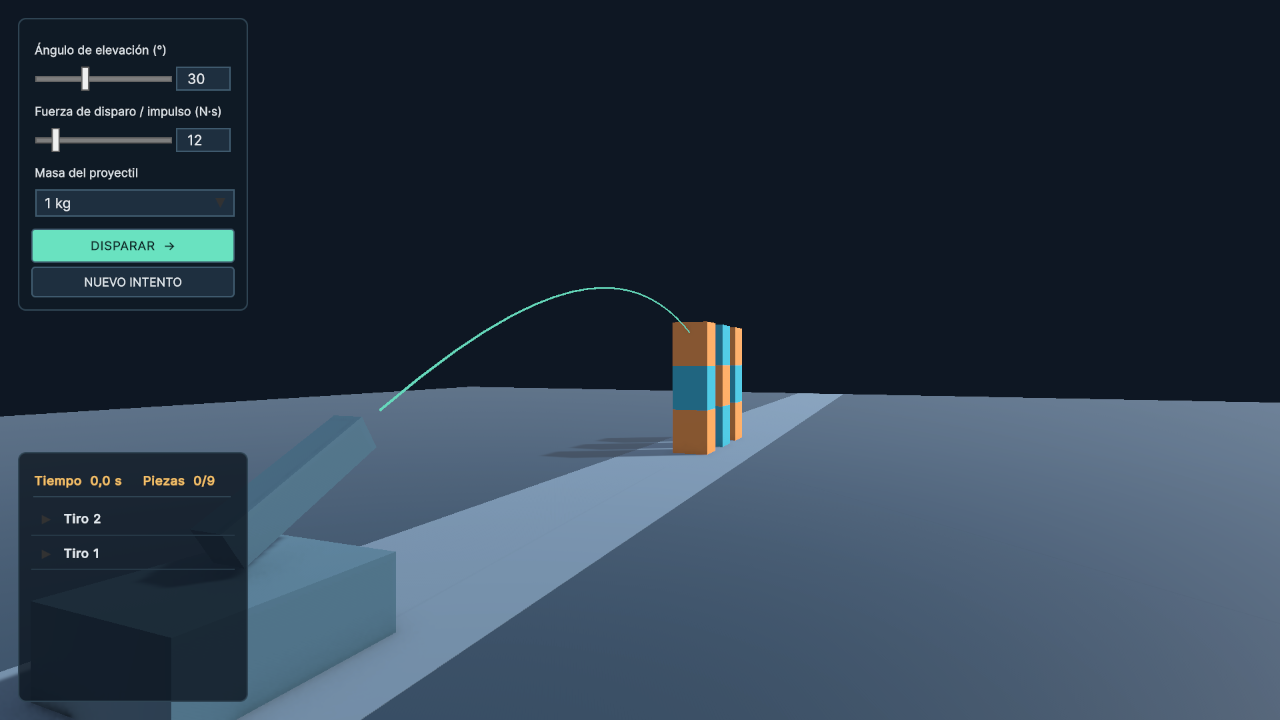
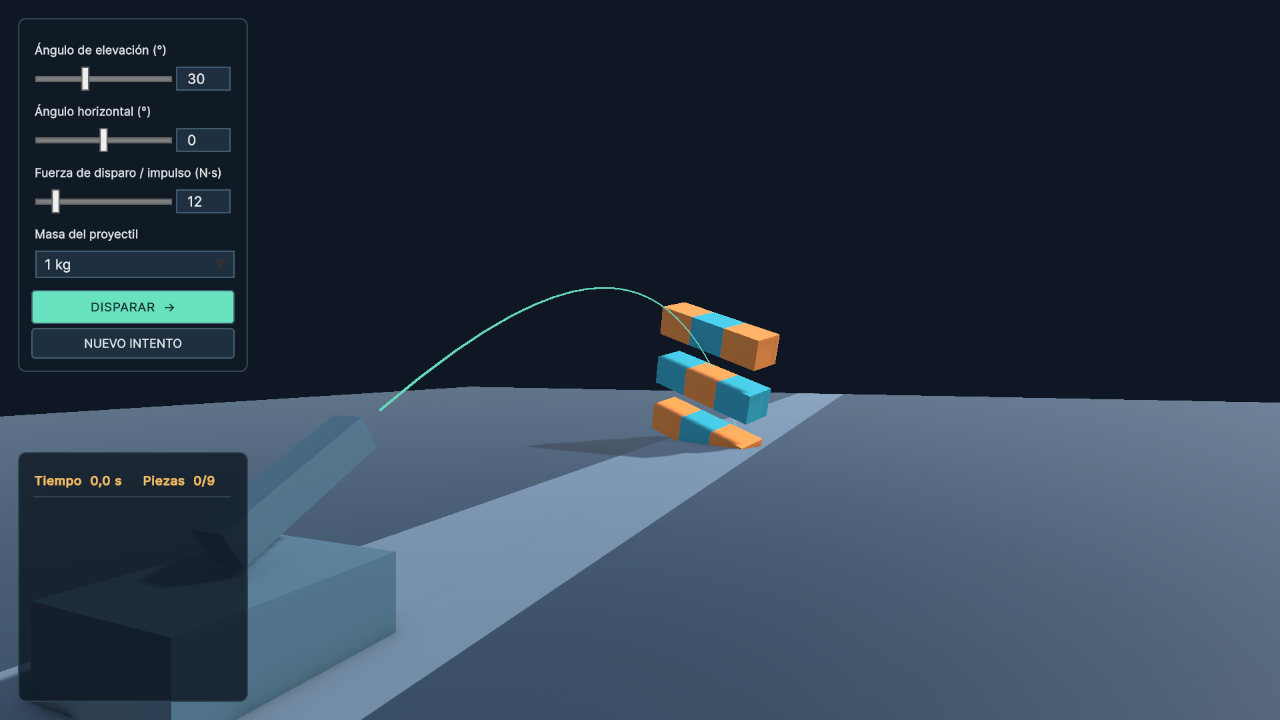
feat: preserve editable target layout and add horizontal aim

diff --git a/Assets/Ballistics/Scripts/BallisticSession.cs b/Assets/Ballistics/Scripts/BallisticSession.cs
@@ -1,18 +1,20 @@
 using System;
 using System.Collections.Generic;
 using UnityEngine;
+using UnityEngine.Serialization;
 
 namespace Ballistics
 {
     public class BallisticSession : MonoBehaviour
     {
         public Projectile projectilePrefab;
-        public GameObject structurePrefab;
+        [FormerlySerializedAs("structurePrefab")]
+        public GameObject structureTemplate;
         public Transform barrelPivot;
         public Transform muzzle;
         public LineRenderer preview;
-        public Vector3 targetPosition = new Vector3(12, 0, 0);
         [Range(5, 75)] public float angle = 30;
+        [Range(-45, 45)] public float horizontalAngle;
         [Range(5, 60)] public float impulse = 12;
         public float mass = 1;
 
@@ -41,19 +43,29 @@ namespace Ballistics
         private float startedAt, firstImpactAt, quietTime;
         private bool pendingLaunch;
         private readonly Vector3[] previewPoints = new Vector3[70];
+        private Vector3 fallbackTemplatePosition = new Vector3(12, 0, 0);
+        private Quaternion fallbackTemplateRotation = Quaternion.identity;
+
+        private Quaternion LaunchRotation => Quaternion.Euler(0, -horizontalAngle, angle);
 
         private void Start()
         {
             Application.runInBackground = true;
             preview.shadowCastingMode = UnityEngine.Rendering.ShadowCastingMode.Off;
             preview.receiveShadows = false;
+            if (structureTemplate != null && structureTemplate.scene.IsValid())
+            {
+                fallbackTemplatePosition = structureTemplate.transform.position;
+                fallbackTemplateRotation = structureTemplate.transform.rotation;
+                structureTemplate.SetActive(false);
+            }
             ResetRange();
         }
 
         private void Update()
         {
             if (IsRunning) return;
-            barrelPivot.rotation = Quaternion.Euler(0, 0, angle);
+            barrelPivot.rotation = LaunchRotation;
             Vector3 velocity = barrelPivot.right * (impulse / mass);
             int count = 0;
             for (int i = 0; i < previewPoints.Length; i++)
@@ -61,7 +73,7 @@ namespace Ballistics
                 float t = i * 0.055f;
                 Vector3 point = muzzle.position + velocity * t + Physics.gravity * (0.5f * t * t);
                 previewPoints[count++] = point;
-                if (point.y < 0.22f || point.x > 32) break;
+                if (point.y < 0.22f || (point - muzzle.position).sqrMagnitude > 32 * 32) break;
             }
             preview.positionCount = count;
             for (int i = 0; i < count; i++) preview.SetPosition(i, previewPoints[i]);
@@ -77,7 +89,8 @@ namespace Ballistics
             firstImpactAt = -1;
             quietTime = 0;
             current = new ShotRecord { attempt = ++attempt, timestampUtc = DateTime.UtcNow.ToString("O"),
-                angleDegrees = angle, launchImpulseNs = impulse, massKg = mass };
+                angleDegrees = angle, horizontalAngleDegrees = horizontalAngle,
+                launchImpulseNs = impulse, massKg = mass };
             preview.enabled = false;
             Changed?.Invoke();
         }
@@ -88,7 +101,7 @@ namespace Ballistics
             if (pendingLaunch)
             {
                 pendingLaunch = false;
-                barrelPivot.rotation = Quaternion.Euler(0, 0, angle);
+                barrelPivot.rotation = LaunchRotation;
                 projectile = Instantiate(projectilePrefab, muzzle.position, Quaternion.identity);
                 projectileBody = projectile.GetComponent<Rigidbody>();
                 projectile.Launch(this, barrelPivot.right, impulse, mass);
@@ -103,7 +116,8 @@ namespace Ballistics
             quietTime = quiet ? quietTime + Time.fixedDeltaTime : 0;
             if (firstImpactAt >= 0 && Time.fixedTime - firstImpactAt >= 3 && quietTime >= 0.8f) CompleteShot("En reposo", true);
             else if (Elapsed >= 12) CompleteShot("Tiempo máximo de observación (12 s)", true);
-            else if (projectile.transform.position.y < -10 || projectile.transform.position.x > 65)
+            else if (projectile.transform.position.y < -10 ||
+                     (projectile.transform.position - muzzle.position).sqrMagnitude > 65 * 65)
             {
                 // Allow time for the structure to finish falling even if the projectile leaves the range.
                 if (firstImpactAt < 0) firstImpactAt = Time.fixedTime;
@@ -144,7 +158,17 @@ namespace Ballistics
             if (IsRunning) CompleteShot("Interrumpido", false);
             if (structure != null) { structure.SetActive(false); Destroy(structure); }
             if (projectile != null) { projectile.gameObject.SetActive(false); Destroy(projectile.gameObject); }
-            structure = Instantiate(structurePrefab, targetPosition, Quaternion.identity);
+            if (structureTemplate == null)
+            {
+                Debug.LogError("Falta asignar la plantilla de objetivos en BallisticSession.");
+                return;
+            }
+            bool sceneTemplate = structureTemplate.scene.IsValid();
+            Vector3 position = sceneTemplate ? structureTemplate.transform.position : fallbackTemplatePosition;
+            Quaternion rotation = sceneTemplate ? structureTemplate.transform.rotation : fallbackTemplateRotation;
+            structure = Instantiate(structureTemplate, position, rotation);
+            structure.name = "Objetivos - intento actual";
+            structure.SetActive(true);
             pieces = structure.GetComponentsInChildren<TargetPiece>();
             current = null;
             projectile = null;

diff --git a/Assets/Ballistics/Scripts/BallisticHUD.cs b/Assets/Ballistics/Scripts/BallisticHUD.cs
@@ -8,7 +8,7 @@ namespace Ballistics
     public class BallisticHUD : MonoBehaviour
     {
         public BallisticSession session;
-        private Slider angle, impulse;
+        private Slider angle, horizontalAngle, impulse;
         private DropdownField mass;
         private Button fire, reset;
         private Label liveTelemetry;
@@ -19,16 +19,18 @@ namespace Ballistics
         {
             var root = GetComponent<UIDocument>().rootVisualElement;
             angle = root.Q<Slider>("angle");
+            horizontalAngle = root.Q<Slider>("horizontal-angle");
             impulse = root.Q<Slider>("impulse");
             mass = root.Q<DropdownField>("mass");
             fire = root.Q<Button>("fire"); reset = root.Q<Button>("reset");
             liveTelemetry = root.Q<Label>("live-telemetry");
             history = root.Q<ScrollView>("history");
             controls = root.Q("controls");
-            angle.value = session.angle; impulse.value = session.impulse;
+            angle.value = session.angle; horizontalAngle.value = session.horizontalAngle; impulse.value = session.impulse;
             mass.choices = new List<string> { "0,5 kg", "1 kg", "2 kg" };
             mass.index = session.mass < 0.75f ? 0 : session.mass > 1.5f ? 2 : 1;
             angle.RegisterValueChangedCallback(e => session.angle = e.newValue);
+            horizontalAngle.RegisterValueChangedCallback(e => session.horizontalAngle = e.newValue);
             impulse.RegisterValueChangedCallback(e => session.impulse = e.newValue);
             mass.RegisterValueChangedCallback(e => session.mass = mass.index == 0 ? 0.5f : mass.index == 1 ? 1 : 2);
             fire.clicked += session.Fire; reset.clicked += session.ResetRange;

diff --git a/Assets/Ballistics/Editor/BallisticSceneBuilder.cs b/Assets/Ballistics/Editor/BallisticSceneBuilder.cs
@@ -102,17 +102,17 @@ namespace Ballistics.Editor
 
             var controller = new GameObject("Simulador").AddComponent<BallisticSession>();
             controller.projectilePrefab = projectilePrefab.GetComponent<Projectile>();
-            controller.structurePrefab = targetPrefab; controller.barrelPivot = pivot; controller.muzzle = muzzle;
+            controller.barrelPivot = pivot; controller.muzzle = muzzle;
             var line = new GameObject("Trayectoria ideal").AddComponent<LineRenderer>();
             line.sharedMaterial = trailMat; line.startWidth = 0.025f; line.endWidth = 0.025f;
             line.useWorldSpace = true; line.shadowCastingMode = UnityEngine.Rendering.ShadowCastingMode.Off;
             line.receiveShadows = false; controller.preview = line;
 
-            // Editor-only preview: the session instantiates a fresh prefab in Play mode.
+            // This visible scene object is the editable template cloned for every attempt.
             var preview = (GameObject)PrefabUtility.InstantiatePrefab(targetPrefab);
-            preview.name = "Objetivos (vista previa del editor)";
-            preview.transform.position = controller.targetPosition;
-            preview.AddComponent<EditorTargetPreview>();
+            preview.name = "Objetivos - plantilla editable";
+            preview.transform.position = new Vector3(12, 0, 0);
+            controller.structureTemplate = preview;
 
             var camera = new GameObject("Main Camera").AddComponent<Camera>(); camera.tag = "MainCamera";
             camera.transform.position = new Vector3(7.2f, 9.5f, -27);

diff --git a/Tools/VerifyControls.cs b/Tools/VerifyControls.cs
@@ -13,12 +13,13 @@ public static class VerifyControls
         session.ResetRange();
         int initialHistoryCount = session.ShotHistory.Count;
         var angle = root.Q<Slider>("angle");
+        var horizontalAngle = root.Q<Slider>("horizontal-angle");
         var impulse = root.Q<Slider>("impulse");
         var mass = root.Q<DropdownField>("mass");
-        angle.value = 45; impulse.value = 15; mass.index = 0;
-        Check(session.angle == 45 && session.impulse == 15 && session.mass == 0.5f, "Enlace de controles incorrecto.");
+        angle.value = 45; horizontalAngle.value = 20; impulse.value = 15; mass.index = 0;
+        Check(session.angle == 45 && session.horizontalAngle == 20 && session.impulse == 15 && session.mass == 0.5f, "Enlace de controles incorrecto.");
         mass.index = 2; Check(session.mass == 2, "Masa pesada incorrecta.");
-        angle.value = 30; impulse.value = 12; mass.index = 1;
+        angle.value = 30; horizontalAngle.value = 0; impulse.value = 12; mass.index = 1;
         Submit(root.Q<Button>("fire"));
         Check(session.IsRunning && !root.Q<Button>("fire").enabledInHierarchy && !angle.enabledInHierarchy, "Disparo o bloqueo de controles incorrecto.");
         Check(root.Q<Button>("reset").enabledInHierarchy, "Nuevo intento debe estar habilitado durante el vuelo.");

diff --git a/Assets/Ballistics/Scripts/ShotRecord.cs b/Assets/Ballistics/Scripts/ShotRecord.cs
@@ -20,7 +20,7 @@ namespace Ballistics
     {
         public int attempt;
         public string timestampUtc;
-        public float angleDegrees, launchImpulseNs, massKg, duration;
+        public float angleDegrees, horizontalAngleDegrees, launchImpulseNs, massKg, duration;
         public string endReason;
         public int piecesDown;
         public bool hitTarget;

diff --git a/README.md b/README.md
@@ -9,7 +9,7 @@ Proyecto educativo 3D con Rigidbody, FixedJoint y una interfaz hecha con UI Tool
 1. Abrir esta carpeta desde Unity Hub con la versión indicada.
 2. Abrir `Assets/Ballistics/Scenes/BallisticLab.unity` y presionar **Play**.
 3. Usar Game View en **16:9**, preferentemente 1280 × 720 o mayor.
-4. Ajustar ángulo (5–75°), fuerza de disparo expresada como impulso (5–60 N·s) y masa (0,5 / 1 / 2 kg). Los sliders también tienen entrada numérica.
+4. Ajustar elevación (5–75°), ángulo horizontal (−45–45°), fuerza de disparo expresada como impulso (5–60 N·s) y masa (0,5 / 1 / 2 kg). Los sliders también tienen entrada numérica.
 5. Pulsar **Disparar**. La simulación observa las colisiones y espera a que los cuerpos se detengan, con un máximo de 12 segundos.
 6. Consultar el historial plegable y pulsar **Nuevo intento** para reconstruir los objetivos. El botón también puede interrumpir un proyectil en vuelo.
 
@@ -46,6 +46,10 @@ El código conserva internamente los eventos `OnCollisionEnter` del proyectil, i
 | `Tools` | Generación y verificación automatizada mediante Unity Pipeline |
 
 La escena anterior permanece en `Assets/Scenes`. Si había cambios sin guardar, se preservaron en `BeforeBallisticSetup.unity`.
+
+### Acomodar los objetivos
+
+En la jerarquía de `BallisticLab`, mover o rotar **Objetivos - plantilla editable**. Esa transformación —incluido el giro sobre Y— se conserva al entrar en Play y se usa para reconstruir cada intento. También se pueden ajustar sus bloques hijos, siempre que se mantengan coherentes las conexiones de sus FixedJoint. El ángulo horizontal del disparo permite apuntar a objetivos desplazados en profundidad.
 
 Para regenerar los assets iniciales: menú **Ballistics → Crear o reconstruir escena**. Esto restablece la escena, materiales y prefabs del simulador; guardar antes cualquier personalización. No es necesario ejecutar el generador para jugar un clon del repositorio.
 
